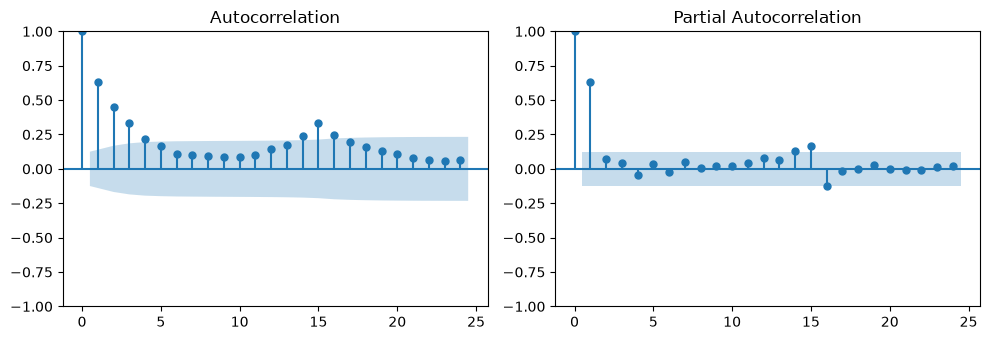
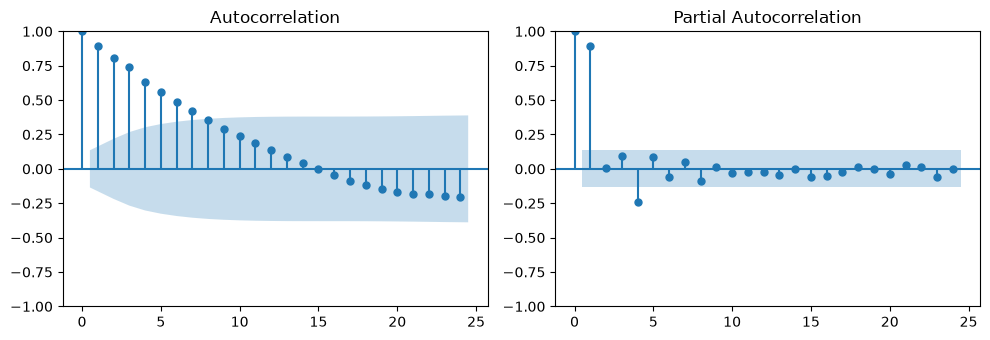
changed images

diff --git a/Regression.py b/Regression.py
@@ -173,7 +173,7 @@ plt.show()
 exog = pd.DataFrame(det_trim[:, 1:], index=y_trim.index,
                     columns=["t", "March_2020", "April_2020", "May_2020"])
 
-orders = [(3, 0, 1), (4, 0, 0), (4, 0, 1)]
+orders = [(4, 0, 0), (3, 0, 1), (4, 0, 1), (5, 0, 1)]
 fits = {}
 rows = []
 
